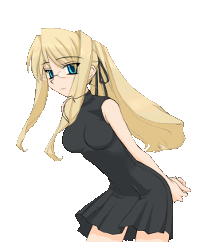
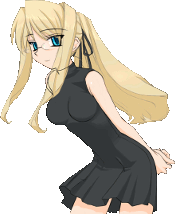
Image width adjusted to get around sixpack bug
Sixpack behaves erratically if the image width isn't a multiple of 8.

diff --git a/src/main.c b/src/main.c
@@ -73,7 +73,7 @@ void drawApgImage(int x, int y, vu16 *apg, char semiTransparent) {
 		// Image partly outside the left
 		visibleW -= outside;
 	}
-		
+
 	for (i = 0; i != visibleH; i++) {
 		srcCol = srcLin;
 		dstCol = dstLin;
@@ -138,7 +138,7 @@ int main()
 		currentFB ^= 1;
 
 		drawApgImage(0, 0, bedday, 0);
-		drawApgImage(1, 1, pose, 0);
+		drawApgImage(80, 0, pose, 0);
 		drawApgImage(0, FBF_HEIGHT - 80, text_frame, 1);
 		
 		t++;
